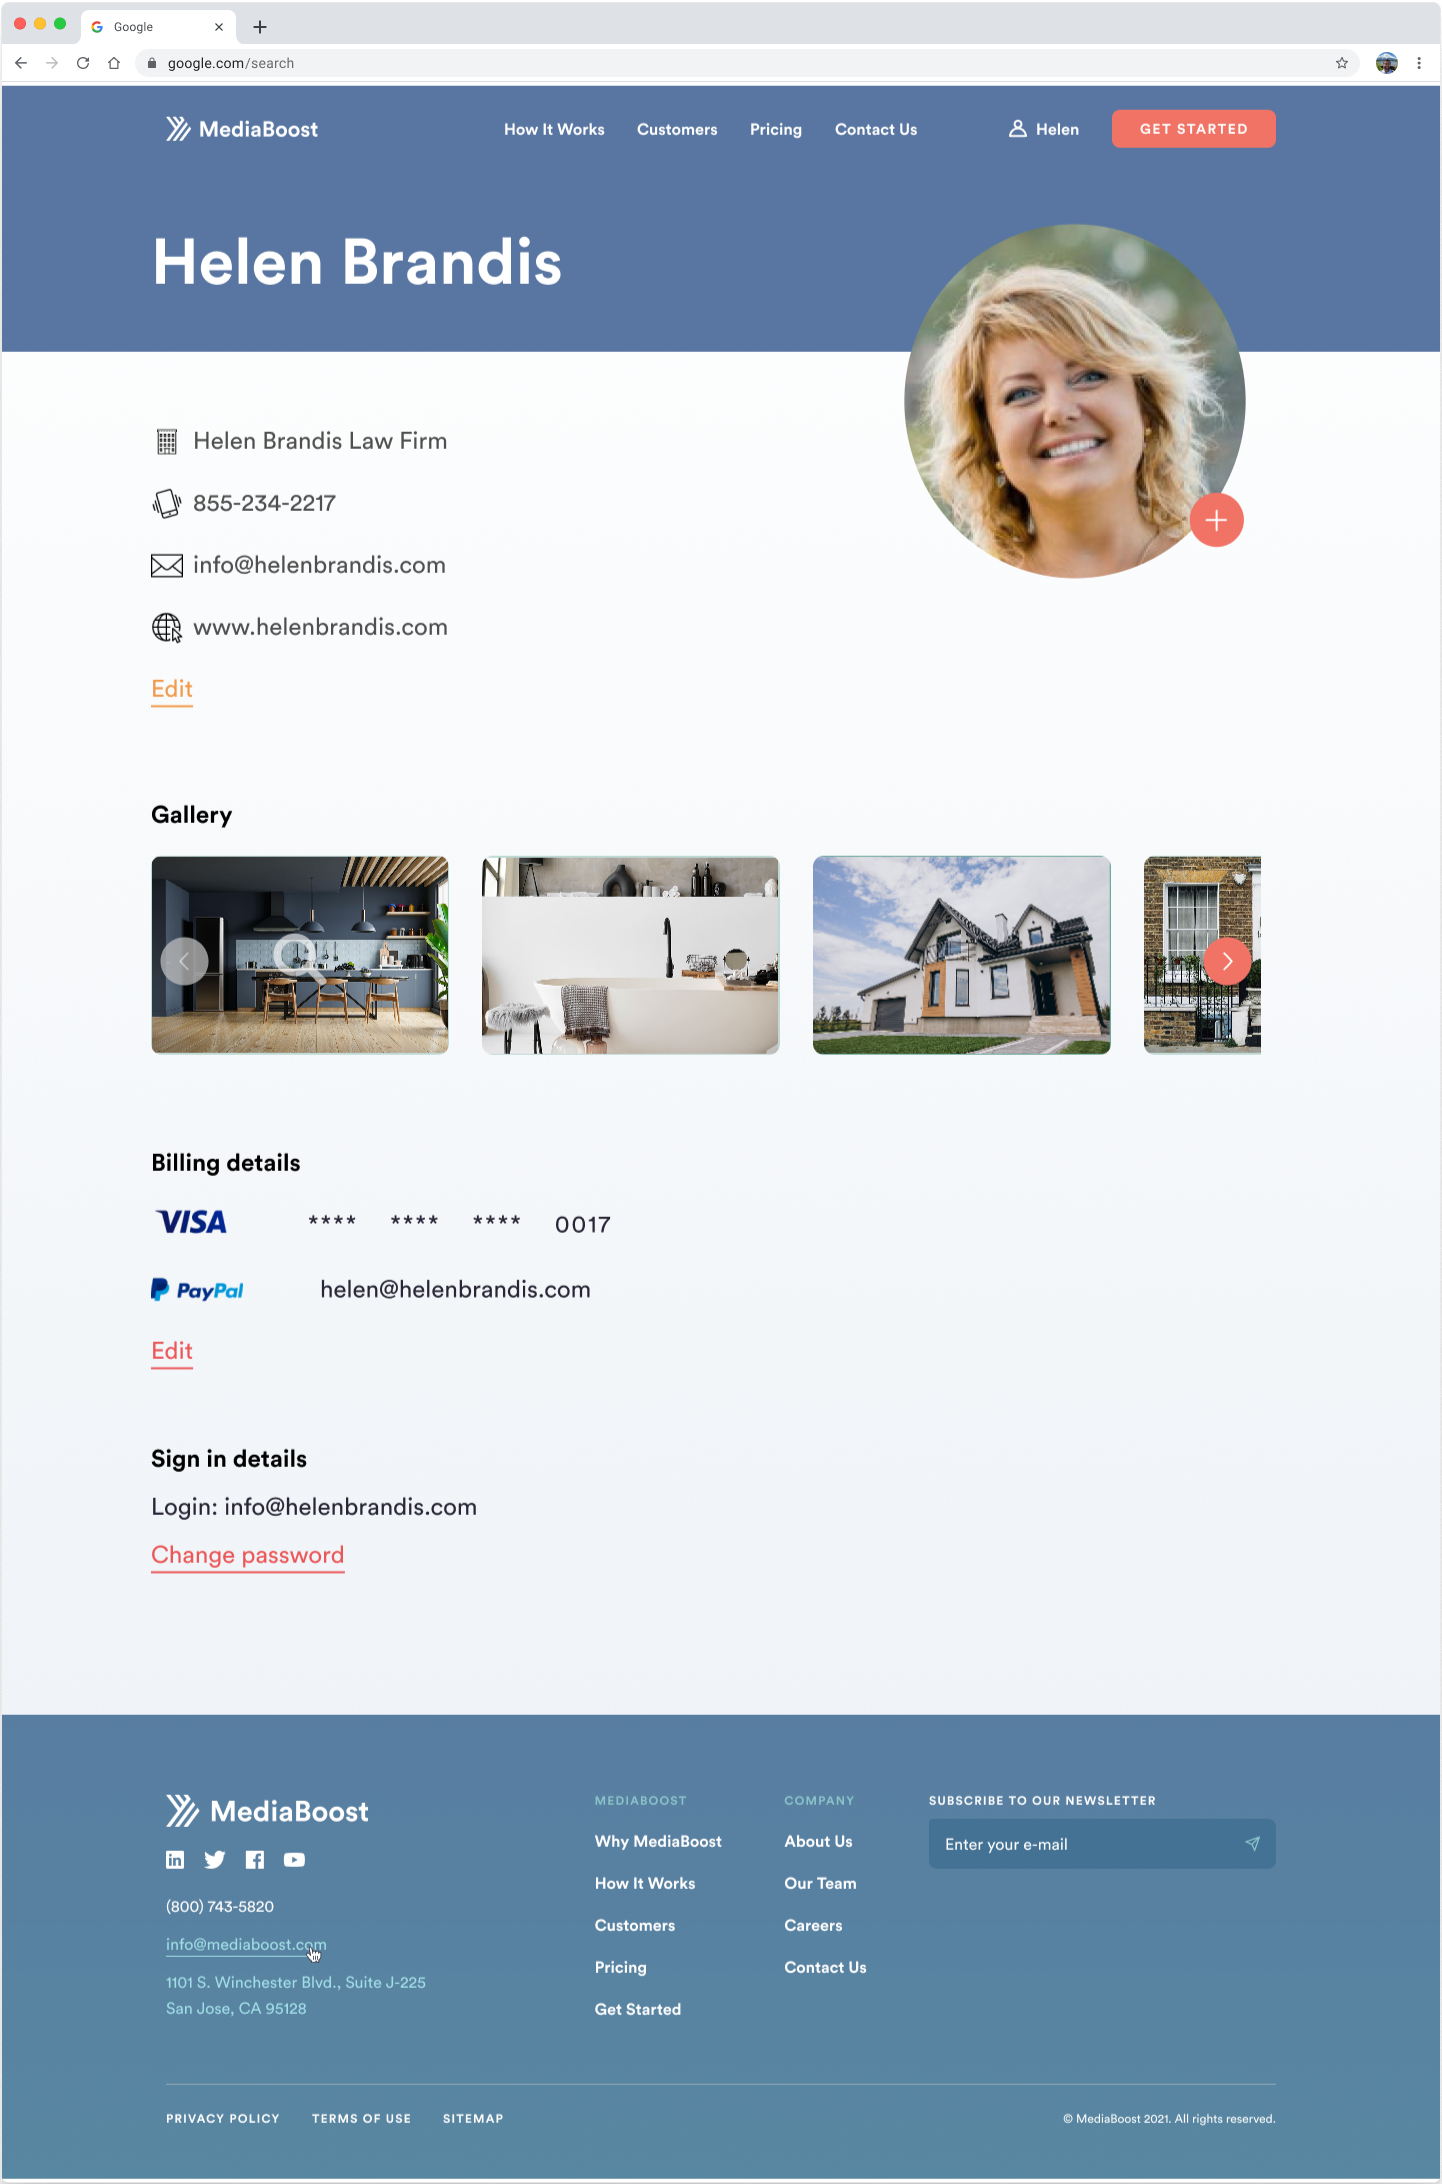
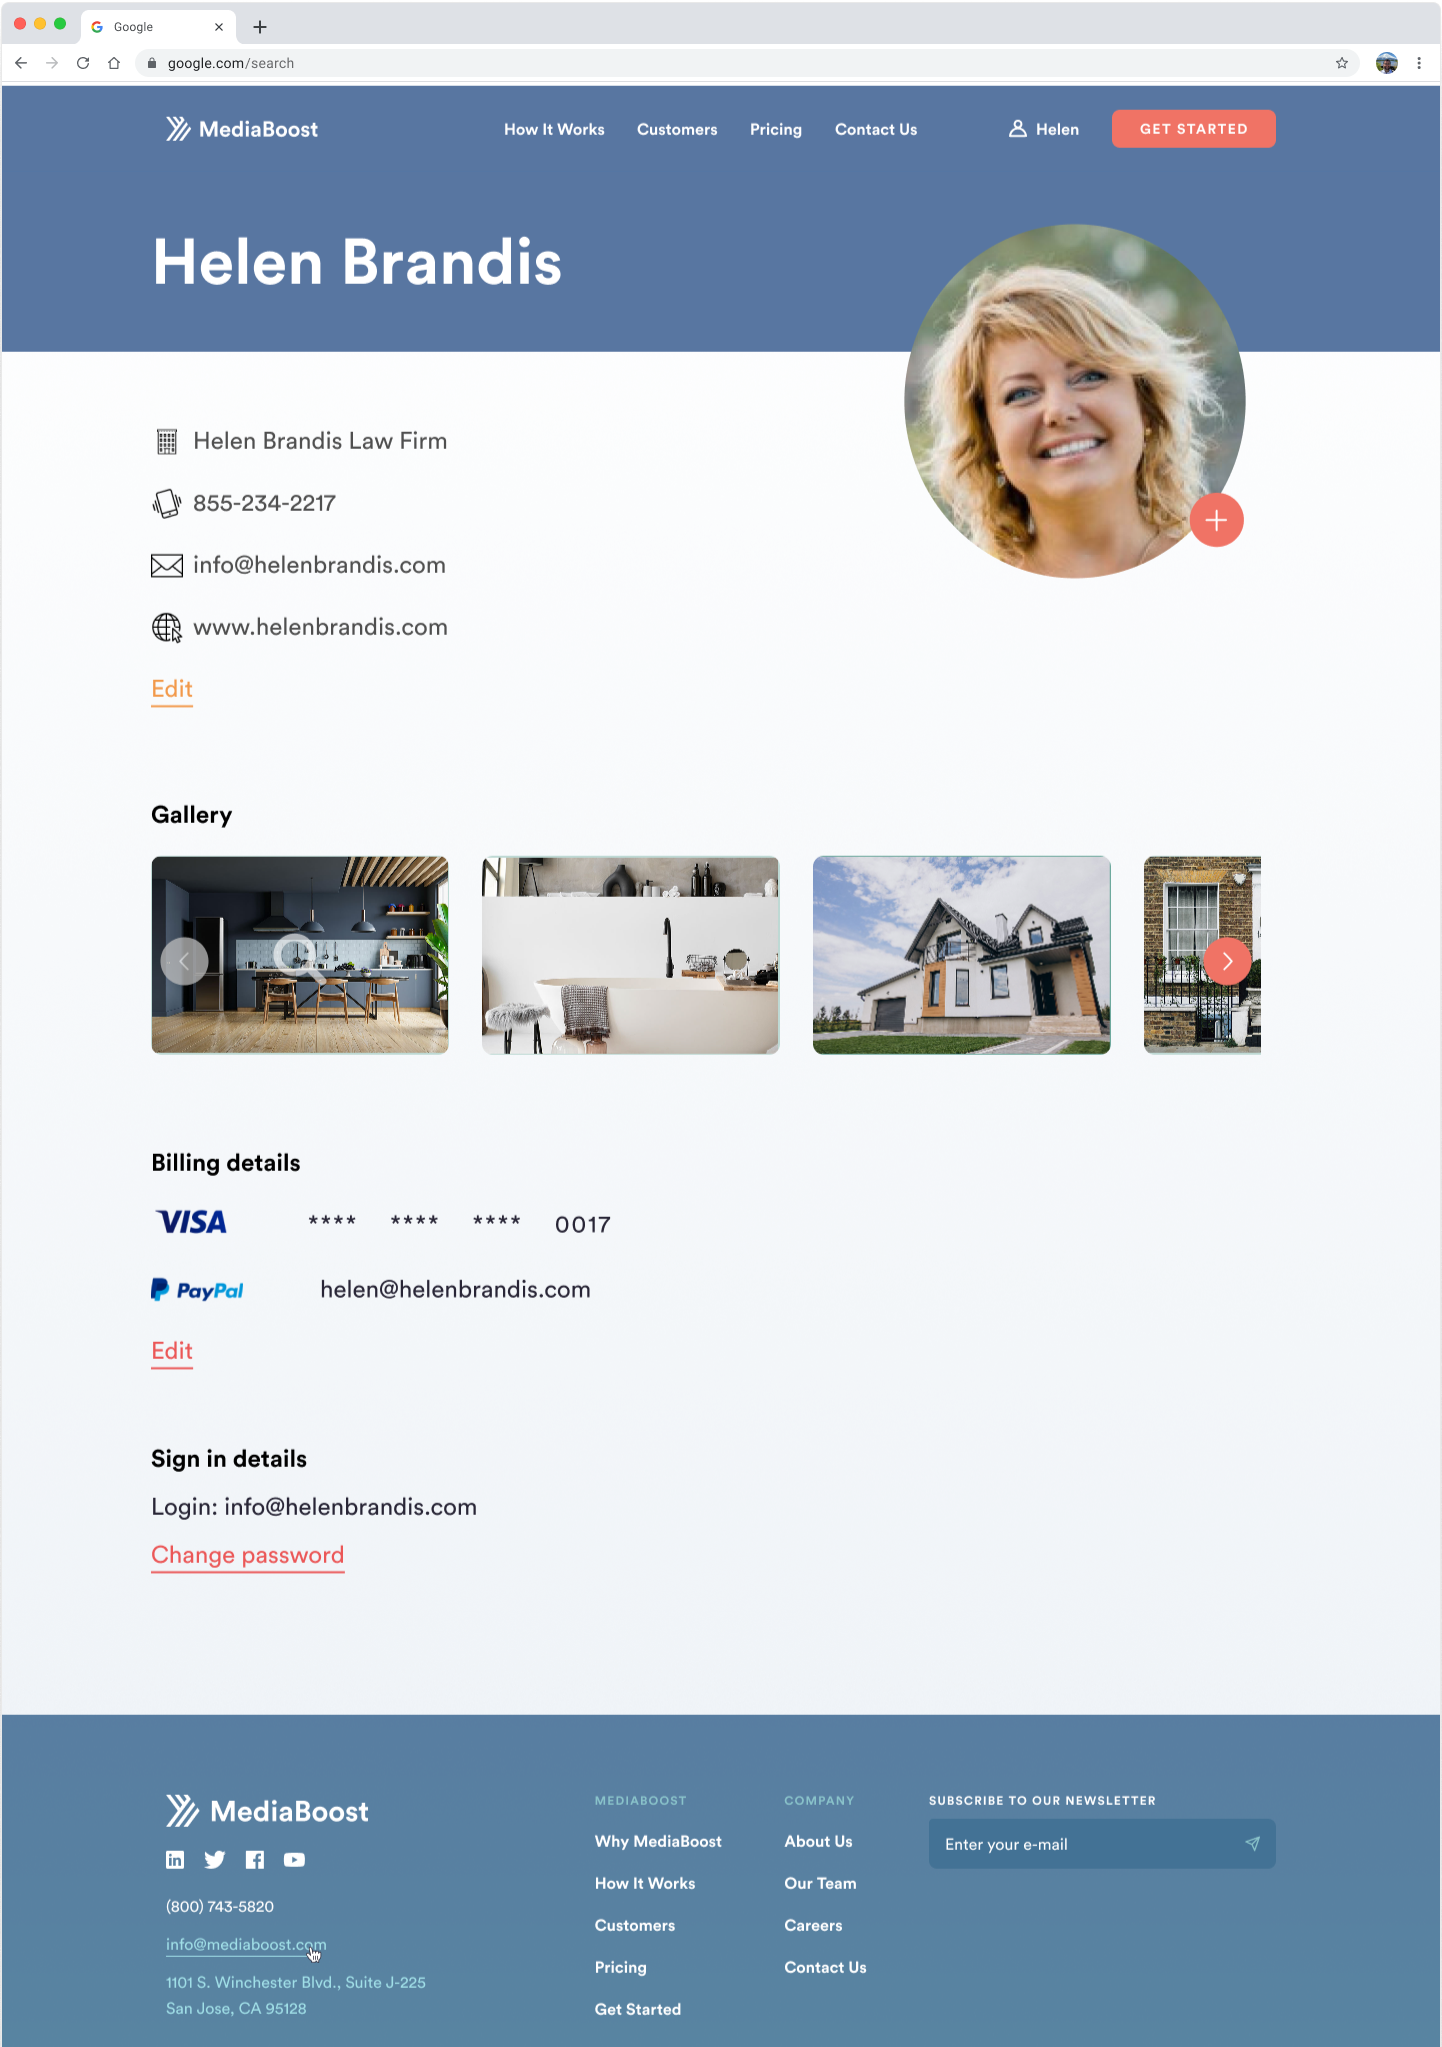
pictures added

diff --git a/src/Portfolio.js b/src/Portfolio.js
@@ -8,9 +8,12 @@ function Portfolio() {
       
       <div className="portfolio_section" id="case1">
           <p className='header3Link'><img className="logo"/><a href='https://mediaboost.com/'>MediaBoost</a></p> 
-          <div><img className="cover" src='/img/mediaboost/dashboard.png' width='30%' alt="Media Boost Personal Information" /></div>
+          <div>
+            <img className="cover" src='/img/mediaboost/dashboard.png' alt="Media Boost Personal Information" />
+            <img className="cover" src='/img/mediaboost/Campaigns@2x.png'  alt="Media Boost Campaigns" />
+            <img className="cover" src='/img/mediaboost/start_campaign.png'  alt="Media Boost Start Campaign" /></div>
           <p className="description">Media Boost is an advertising service that allows small businesses create and run ads in social media. My task here was to design profile pages for MediaBoost customers.</p>
-          {location.hash == "#case1" ? 
+          {location.hash === "#case1" ? 
           <div>
           <p>I started with business interviews to define the main functionality and approximate user scenarios.</p>
           <p>Running ad campaigns on social media seems a hard task for most individual businesses that don't have expertise in digital marketing. The whole idea of Media Boost is to offer one-click solutions for digital advertising, that would not involve much of the customer's attention.</p>
@@ -21,8 +24,8 @@ function Portfolio() {
           <a className="link" href="#case1">More</a>}
       </div>
       <div className="portfolio_section" id="case2">
-          <p className='header3Link'><img className="logo"/><a href='https://mediaboost.com/'>Time Timer</a></p> 
-          <img className="cover" src='/img/mediaboost/dashboard.png' width='100%' />
+          <p className='header3Link'><img className="logo" alt="logo" /><a href='https://mediaboost.com/'>Time Timer</a></p> 
+          <img className="cover" src='/img/mediaboost/dashboard.png' width='100%' alt=""/>
           <p className="description">Media Boost is an advertising service that allows small businesses create and run ads in social media. My task here was to design profile pages for MediaBoost customers.</p>
           <p>Media Boost is an advertising service that allows small businesses create and run ads in social media. My task here was to design profile pages for MediaBoost customers.</p>
           <p>I started with business interviews to define the main functionality and approximate user scenarios.</p>

diff --git a/src/App.css b/src/App.css
@@ -119,3 +119,8 @@ ul.menu li a.active:hover {
   text-decoration: none;
   font-weight: 500;
 }
+img.cover {
+  width: 30%;
+  height: auto;
+  margin-right: 20px;
+}
